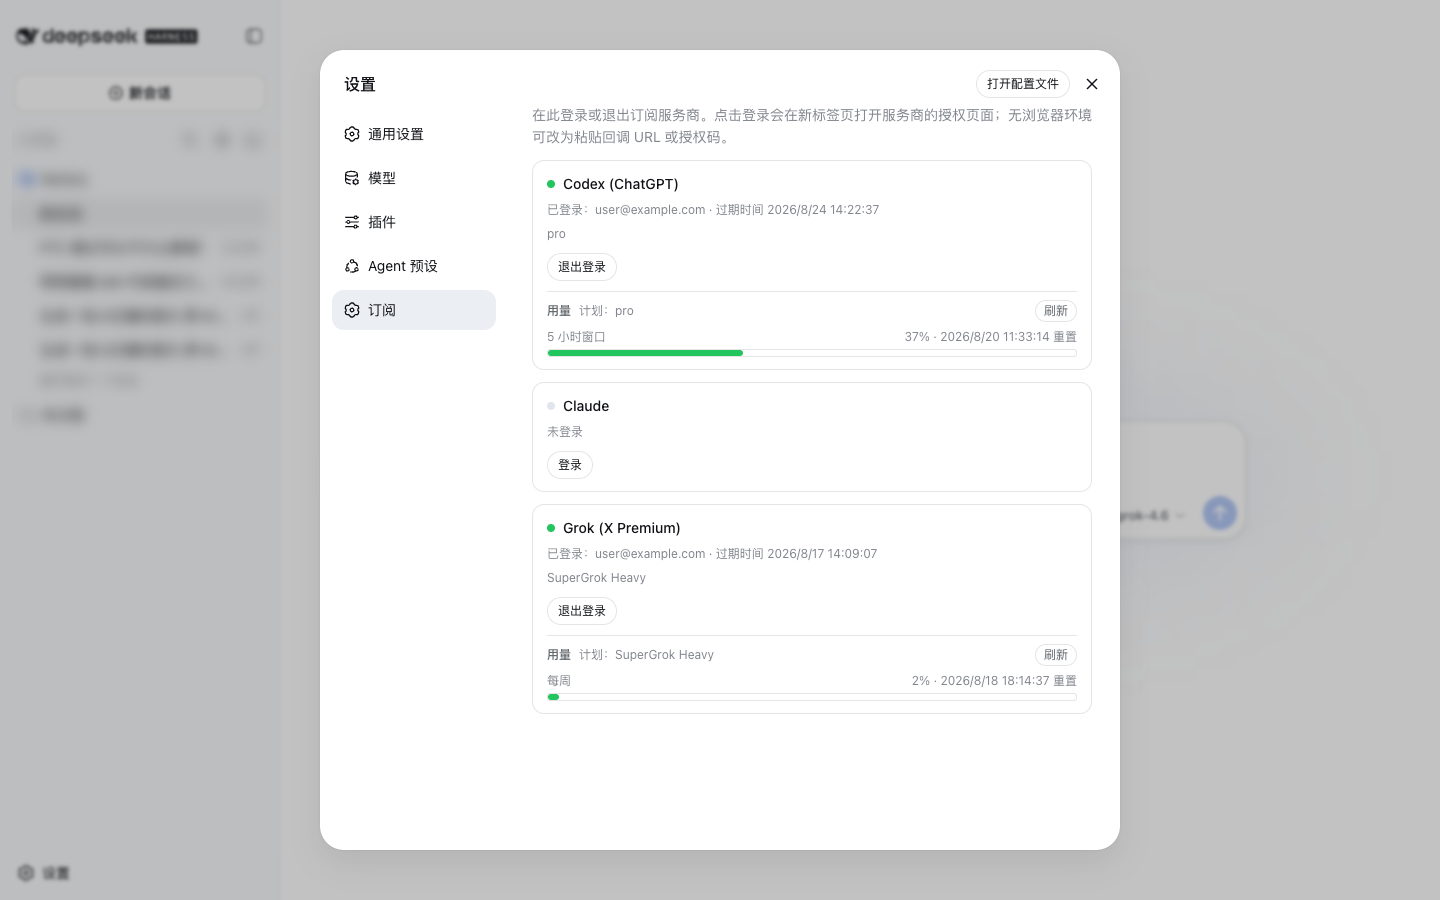
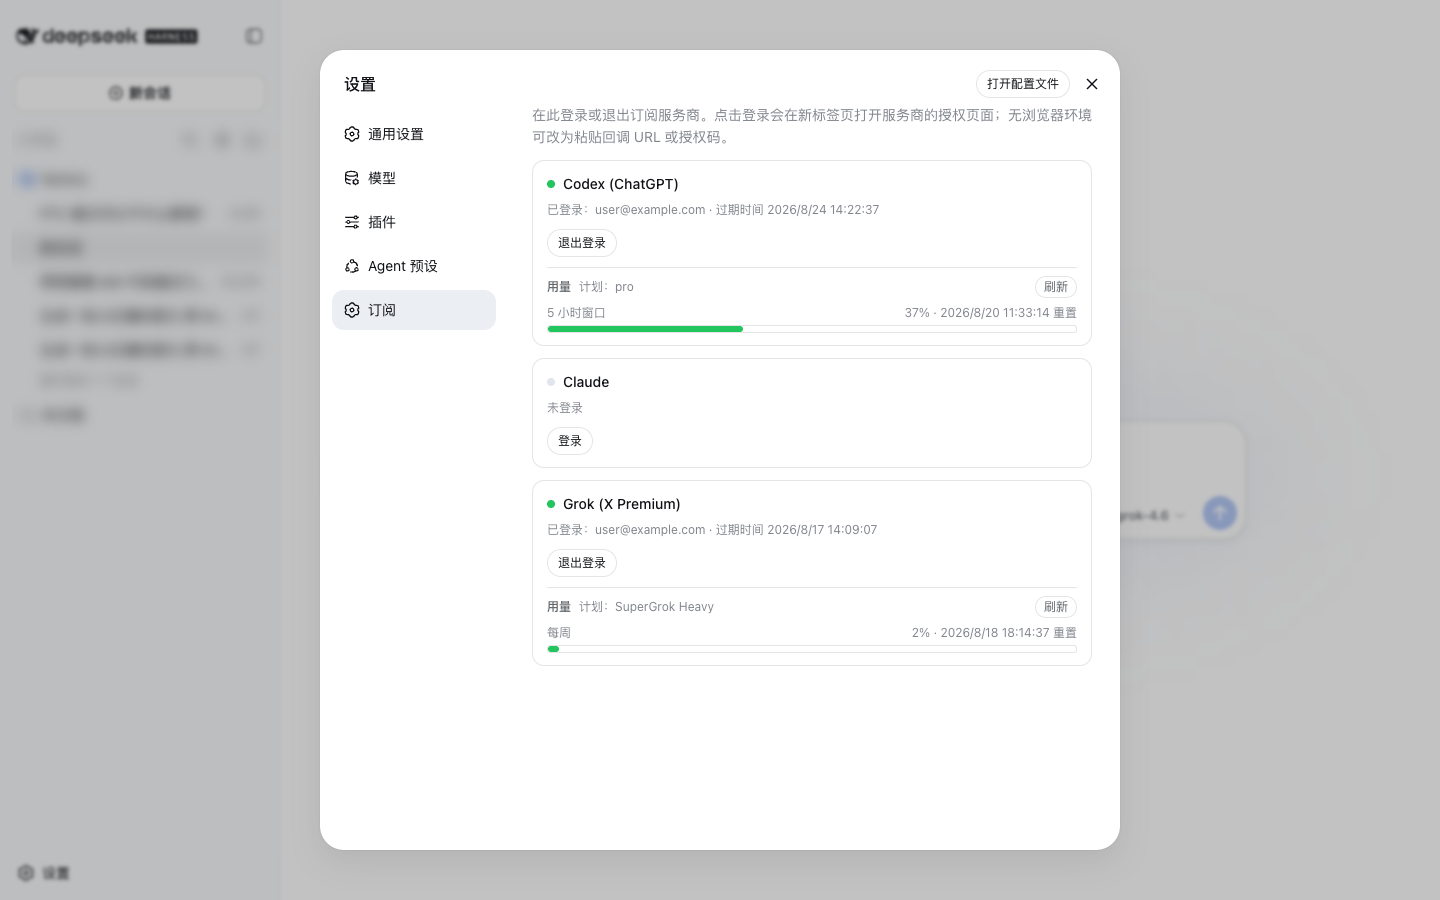
fix: drop the duplicate plan line from the provider card status
The usage section header already shows the plan, so the status
`detail` field now only carries login errors.

Changed region(s): [[0.375, 0.2489, 0.75, 0.7778], [0.125, 0.2178, 0.1562, 0.28]]

diff --git a/src/index.ts b/src/index.ts
@@ -58,7 +58,6 @@ import {
   GROK_PREEMPT_MS,
   exchangeGrokCode,
   fetchGrokUsage,
-  grokTierName,
   isGrokPermanentRefreshError,
   refreshGrok,
 } from './providers/grok.js'
@@ -154,20 +153,6 @@ function accountOf(provider: ProviderId, session: StoredSession | undefined): st
   }
 }
 
-/** The subscription detail of a stored session (plan type), for the status endpoint. */
-function planOf(provider: ProviderId, session: StoredSession | undefined): string | undefined {
-  if (session === undefined) return undefined
-  switch (provider) {
-    case 'codex': {
-      const codex = session as CodexSession
-      return codex.planType ?? codexProfileClaims(codex.idToken).planType
-    }
-    case 'claude': return (session as ClaudeSession).subscriptionType
-    // The tier rides the access token's `tier` claim, so it needs no storage.
-    case 'grok': return grokTierName((session as GrokSession).accessToken)
-  }
-}
-
 /** Per-provider usage lookup; providers without a usage endpoint are absent. */
 type UsageFetchers = Partial<Record<ProviderId, (signal: AbortSignal) => Promise<ProviderUsage>>>
 
@@ -208,7 +193,8 @@ class SubscriptionsAuthController implements AuthController {
   async status(provider: ProviderId): Promise<ProviderStatus> {
     const session = await getSession(provider)
     const account = accountOf(provider, session)
-    const detail = this.lastError.get(provider) ?? planOf(provider, session)
+    // The plan name is shown by the usage section, so `detail` only carries errors.
+    const detail = this.lastError.get(provider)
     return {
       loggedIn: session !== undefined,
       busy: this.flows.isBusy(provider),
